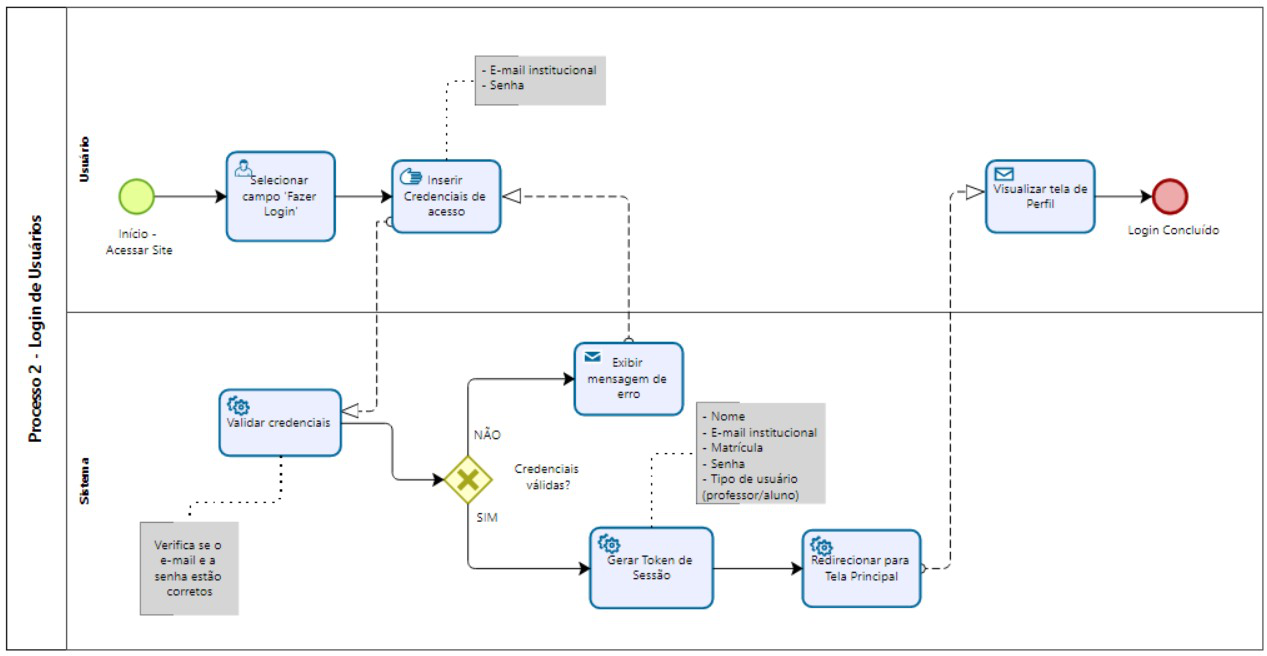
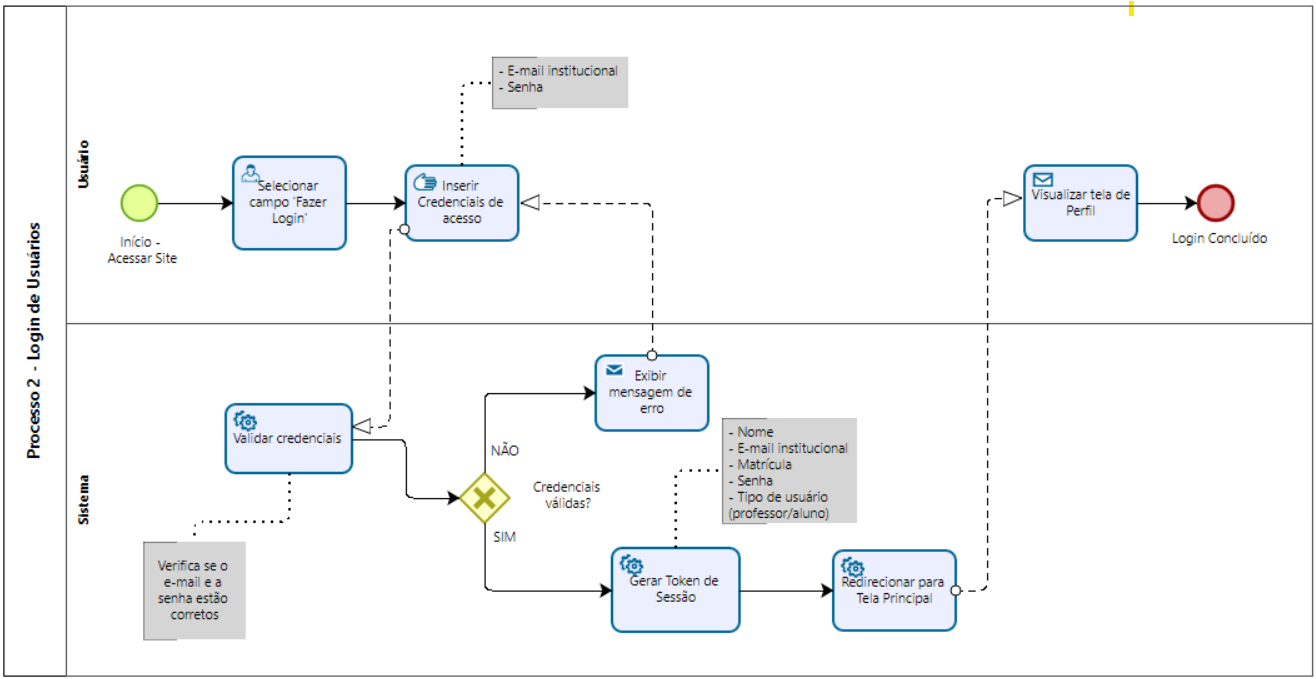
fix: fixing image's links

diff --git a/docs/processos/processo2_login_usuario.md b/docs/processos/processo2_login_usuario.md
@@ -9,7 +9,7 @@ O sistema valida as credenciais e, em caso de sucesso, libera o acesso ao ambien
 - Implementar mensagens claras em caso de erro de login;  
 - Otimizar o tempo de resposta da autenticação.  
 
-![PROCESSO 2 - Login de Usuários](../images/p2_Login.png "Modelo BPMN do Processo 2.")
+![PROCESSO 2 - Login de Usuários](../images/p2_login.png "Modelo BPMN do Processo 2.")
 
 ---
 

diff --git a/docs/4-Projeto-Solucao.md b/docs/4-Projeto-Solucao.md
@@ -12,7 +12,7 @@
  
  **Exemplo do diagrama de Arquitetura**:
  
- ![Exemplo de Arquitetura](./images/arquitetura-exemplo.png)
+![Exemplo de Arquitetura](../images/arquitetura-exemplo.png)
  
 ---
 
